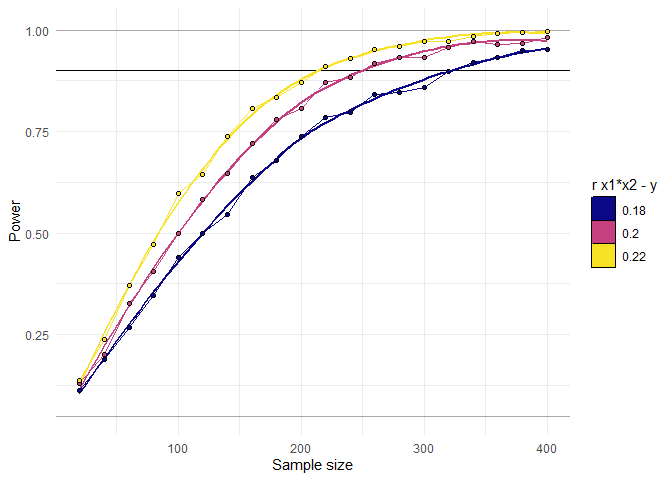
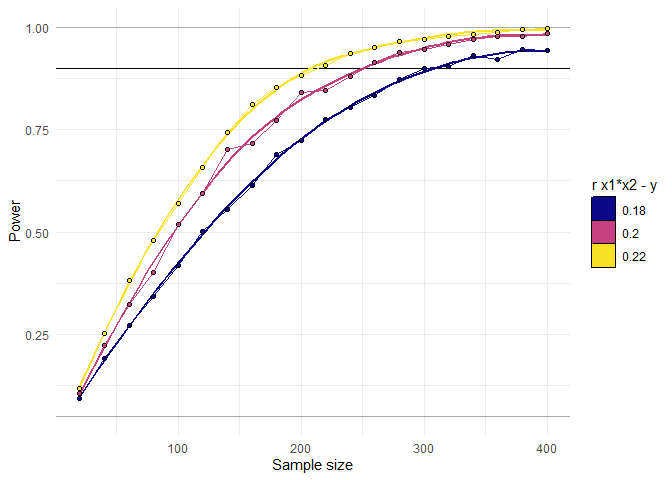
Fixed final check() issues

diff --git a/README.md b/README.md
@@ -12,7 +12,7 @@ interactions between continuous variables (also known as a moderation
 analysis). The main function is `power_interaction()`, which performs
 the power analysis. This is done via Monte Carlo simulation.
 `power_estimate()` helps to interpret the results of the power
-simulation, and `plot_power_curve()` and `plot_simple_sploe()` generate
+simulation, and `plot_power_curve()` and `plot_simple_slope()` generate
 plots to visualize the results. The function `generate_interaction()`
 simulates a single data set drawn from the specified population-level
 effects and `plot_interaction()` can be used to visualize the simulated
@@ -53,8 +53,8 @@ test_power<-power_interaction(
 )
 #> [1] "Performing 1000 tests"
 test_power
-#>     pwr     min.lwr   min.upr   max.lwr   max.upr
-#> 1 0.822 -0.07767766 0.2013109 0.1825631 0.4779925
+#>    pwr     min.lwr   min.upr   max.lwr  max.upr
+#> 1 0.79 -0.09180522 0.2078051 0.1956069 0.461098
 ```
 
 We see that we have \~80% power to detect the effect of interest.
@@ -97,7 +97,7 @@ test_power<-power_interaction(
 )
 #> [1] "Performing 60000 tests"
 toc()
-#> 194.25 sec elapsed
+#> 162.89 sec elapsed
 ```
 
 The results of this analysis can be hard to interpret just by looking at
@@ -117,10 +117,71 @@ power\_curve for each interaction effect size crosses our 90% line:
 ``` r
 power_estimate(test_power,power_target = .9,x = "N")
 #>   r.x1x2.y estimate
-#> 1     0.18 317.6146
-#> 2     0.20 245.1963
-#> 3     0.22 208.2832
+#> 1     0.18 307.6380
+#> 2     0.20 239.8541
+#> 3     0.22 207.7671
 ```
 
 We can see that depending on the specific effect size we hope to detect,
 we would need between N\~200 and N\~300 participants.
+
+### Example 3
+
+In this example, we know the population-level correlation between each
+of our predictors (x1 and x2) and our outcome (y), as well as the
+correlation between the two predictors. We know our sample size (perhaps
+we are doing some secondary data analysis) and we want to know what’s
+the smallest effect size we can detect. Using that information, we can
+decide whether that effect would be plausible, which in turn can help
+inform our decision of whether or not to run the analysis.
+
+``` r
+library(tictoc)
+tic()
+
+test_power<-power_interaction(
+  n.iter = 1000,                  # number of simulations per unique combination of input parameters
+  cl = 6,                   # number of cores for parallel processing (strongly recommended)
+  alpha = 0.05,             # alpha, for the power analysis
+  N = 450,                  # sample size
+  r.x1x2.y = seq(0.04,0.3,by=.02), # range of interaction effects to test
+  r.x1.y = .2,              # correlation between x1 and y
+  r.x2.y = .1,              # correlation between x2 and y
+  r.x1.x2 = .2              # correlation between x1 and x2
+)
+#> [1] "Performing 14000 tests"
+toc()
+#> 57.64 sec elapsed
+```
+
+As with the previous example, the results of this analysis can be hard
+to interpret just by looking at the output. With this example, we can
+use the function `plot_power_curve()` to visualize the power curve.
+
+``` r
+plot_power_curve(test_power,power_target = .9)
+```
+
+<img src="man/figures/README-example7-1.png" width="100%" /> The
+function `power_estimate()` can be used to estimate where the
+power\_curve for each interaction effect size crosses our 90% line:
+
+``` r
+power_estimate(test_power,power_target = .9,x = "r.x1x2.y")
+#> [1] 0.1476728
+```
+
+We can use the function `plot_simple_slope()` to visualize the
+distribution of the simple slopes across the different interaction
+effect sizes.
+
+``` r
+plot_simple_slope(test_power)
+```
+
+<img src="man/figures/README-example9-1.png" width="100%" />
+
+From this we can see that we have 90% power to detect effects as small
+as r.x1x2.y \~ .15, which is a ‘knock-out’ interaction where the
+association between y and x1 is close to 0 at one end of the x2
+distribution.
